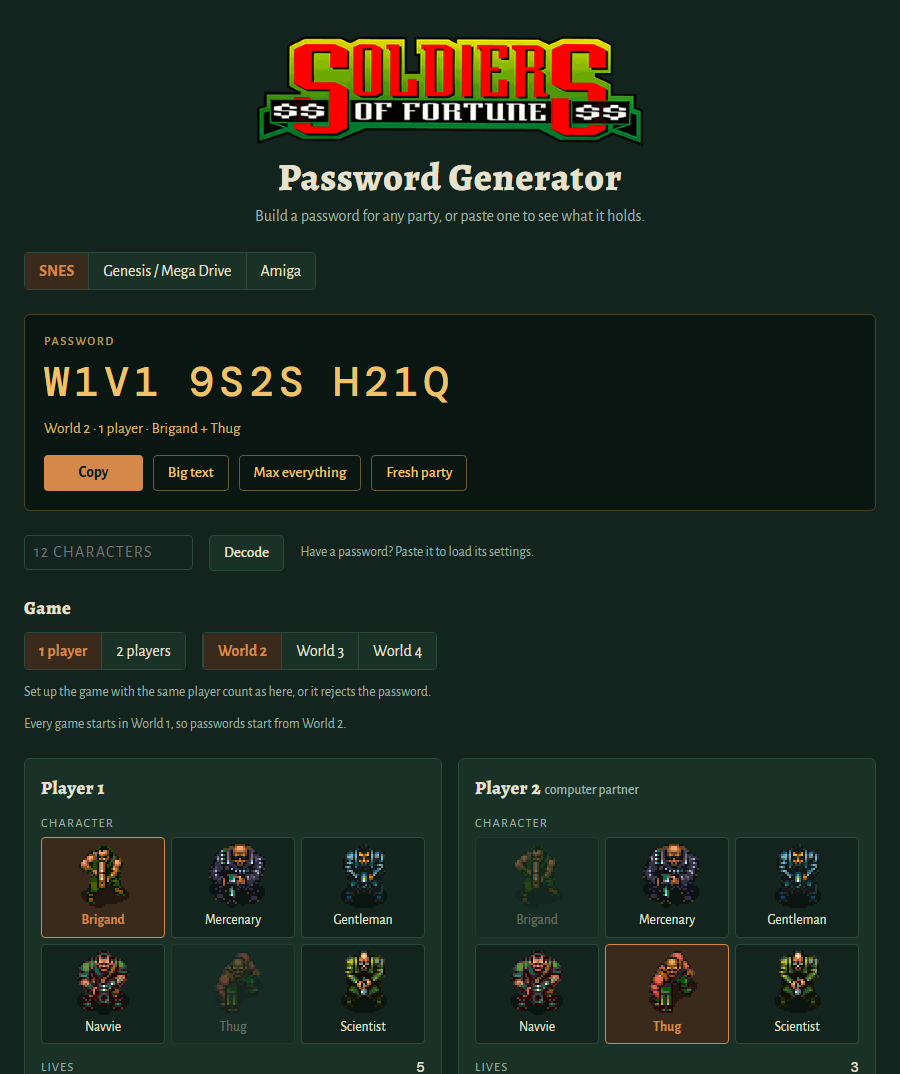
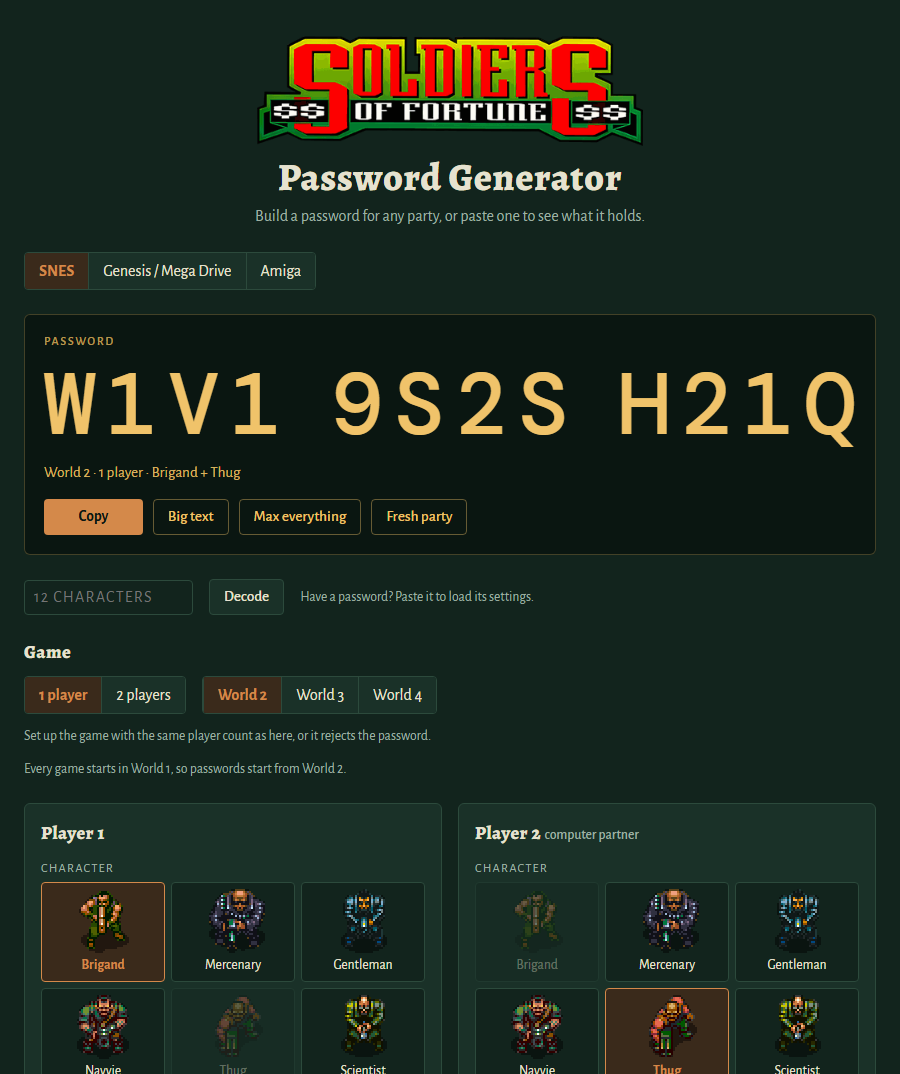
Generator: password fills the plate's width; v1.0.1
The password's font size now follows the plate's width (container query
units) and the three groups spread edge to edge, so it's as large as it
can be on one line at any screen size. Version bumped to 1.0.1 and the
README screenshots refreshed.

diff --git a/tools/sof_password_generator.html b/tools/sof_password_generator.html
@@ -33,7 +33,10 @@ h1 img { display: block; width: auto; height: auto; max-width: 100%; max-height:
 .plate { background: var(--plate); color: var(--plate-ink); border-radius: 6px; padding: 20px; display: grid; gap: 14px;
   box-shadow: inset 0 0 0 1px color-mix(in srgb, var(--plate-ink) 25%, transparent); }
 .plate-label { font: 500 .75rem var(--body); letter-spacing: .14em; text-transform: uppercase; opacity: .75; }
-.code { font: 500 clamp(1.5rem, 7vw, 2.6rem)/1 var(--mono); letter-spacing: .12em; display: flex; flex-wrap: wrap; gap: .1em .6em; }
+/* the password fills the plate's width: font size follows the plate (container units), groups spread edge to edge */
+.plate { container-type: inline-size; }
+.code { font: 500 10.6cqi/1 var(--mono); letter-spacing: .12em; display: flex; justify-content: space-between; gap: .4em; }
+.code span { margin-right: -.12em; }  /* no trailing letter-spacing at the right edge */
 .plate-row { display: flex; flex-wrap: wrap; gap: 10px; align-items: center; }
 button { font: 500 .95rem var(--body); border-radius: 4px; padding: 8px 14px; cursor: pointer; border: 1px solid var(--line); background: var(--panel); color: var(--ink); }
 button:hover { border-color: var(--brass); }
@@ -196,7 +199,7 @@ body:has(#big[open]) { overflow: hidden; }
     <p>The SNES checksum is (sum of the 12 numbers − 66) mod 16. Money in the password is cash plus the value of your gear. On load the game subtracts the value of the gear you start with, so your spendable cash ends up a little lower than the figure here. "Lives" and "level" are names inferred from the code: lives start at 3 on a new game, and level goes up through the worlds.</p>
   </details>
 
-  <footer><a href="https://github.com/maxxthunder/soldiersoffortune"><svg viewBox="0 0 16 16" width="18" height="18" fill="currentColor" aria-hidden="true"><path d="M8 0c4.42 0 8 3.58 8 8a8.013 8.013 0 0 1-5.45 7.59c-.4.08-.55-.17-.55-.38 0-.27.01-1.13.01-2.2 0-.75-.25-1.23-.54-1.48 1.78-.2 3.65-.88 3.65-3.95 0-.88-.31-1.59-.82-2.15.08-.2.36-1.02-.08-2.12 0 0-.67-.22-2.2.82-.64-.18-1.32-.27-2-.27-.68 0-1.36.09-2 .27-1.53-1.03-2.2-.82-2.2-.82-.44 1.1-.16 1.92-.08 2.12-.51.56-.82 1.28-.82 2.15 0 3.06 1.86 3.75 3.64 3.95-.23.2-.44.55-.51 1.07-.46.21-1.61.55-2.33-.66-.15-.24-.6-.83-1.23-.82-.67.01-.27.38.01.53.34.19.73.9.82 1.13.16.45.68 1.31 2.69.94 0 .67.01 1.3.01 1.49 0 .21-.15.45-.55.38A7.995 7.995 0 0 1 0 8c0-4.42 3.58-8 8-8Z"/></svg>maxxthunder/soldiersoffortune</a><span>v1.0.0</span></footer>
+  <footer><a href="https://github.com/maxxthunder/soldiersoffortune"><svg viewBox="0 0 16 16" width="18" height="18" fill="currentColor" aria-hidden="true"><path d="M8 0c4.42 0 8 3.58 8 8a8.013 8.013 0 0 1-5.45 7.59c-.4.08-.55-.17-.55-.38 0-.27.01-1.13.01-2.2 0-.75-.25-1.23-.54-1.48 1.78-.2 3.65-.88 3.65-3.95 0-.88-.31-1.59-.82-2.15.08-.2.36-1.02-.08-2.12 0 0-.67-.22-2.2.82-.64-.18-1.32-.27-2-.27-.68 0-1.36.09-2 .27-1.53-1.03-2.2-.82-2.2-.82-.44 1.1-.16 1.92-.08 2.12-.51.56-.82 1.28-.82 2.15 0 3.06 1.86 3.75 3.64 3.95-.23.2-.44.55-.51 1.07-.46.21-1.61.55-2.33-.66-.15-.24-.6-.83-1.23-.82-.67.01-.27.38.01.53.34.19.73.9.82 1.13.16.45.68 1.31 2.69.94 0 .67.01 1.3.01 1.49 0 .21-.15.45-.55.38A7.995 7.995 0 0 1 0 8c0-4.42 3.58-8 8-8Z"/></svg>maxxthunder/soldiersoffortune</a><span>v1.0.1</span></footer>
 </div>
 
 <script>
